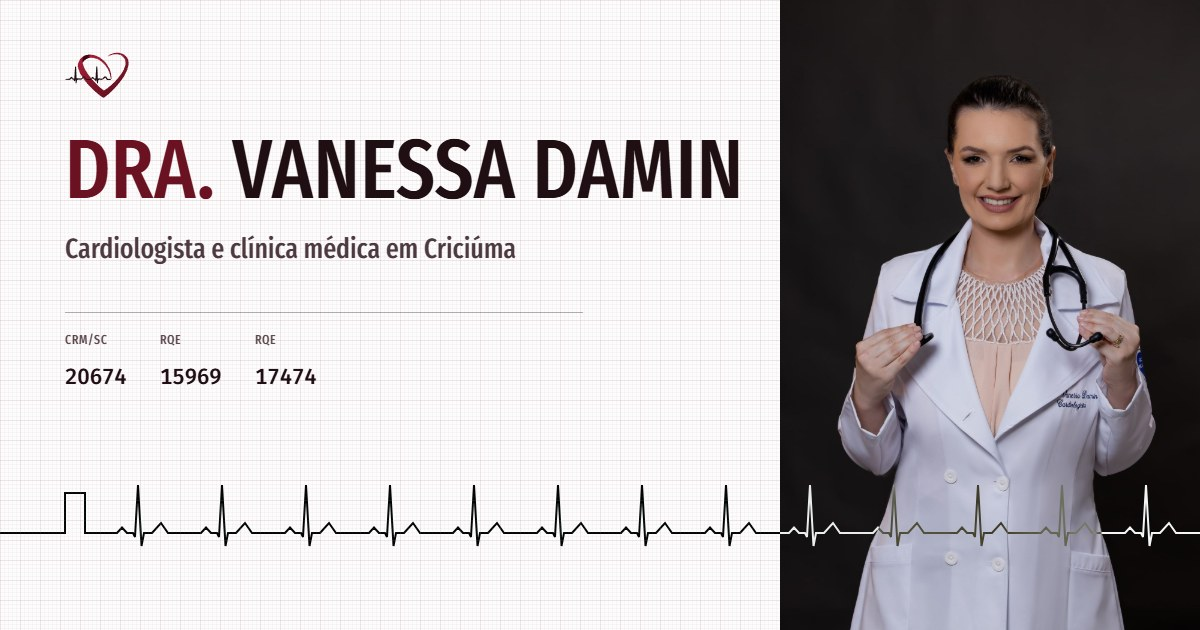
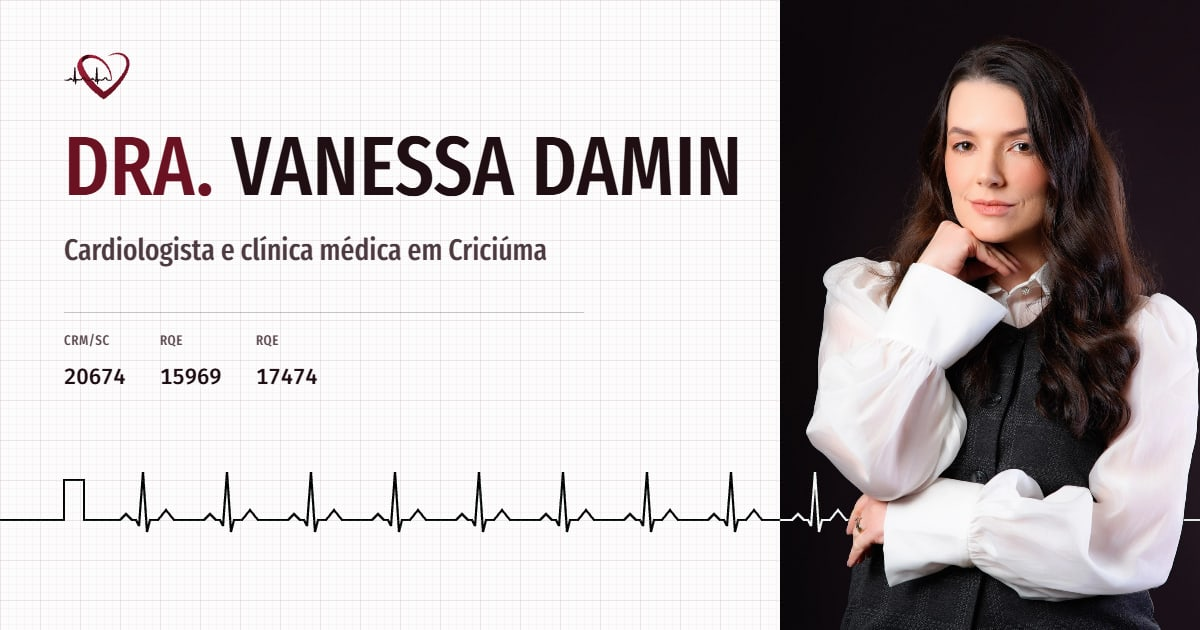
Fotos novas da Dra. Vanessa (ensaio de nov/2026)
- Capa com a IMG_7308 (escolha da Dra. Vanessa) e o traçado ainda passando
  por trás dela: tools/recorte.py agora usa GrabCut sobre a foto clareada,
  porque o cabelo, o colete e a calça são escuros como o fundo.
- Sobre com uma foto sorrindo (IMG_7309), como ela pediu.
- Trajetória com as três fotos do ensaio claro (IMG_7314, 7315 e 7317).
- Retrato IMG_7311 para o cartão da autora nas páginas por tema.
- Imagem de compartilhamento (share.jpg) refeita com a nova capa.
- Foto da abertura com sizes certo no celular e sem PNGs de reserva no recorte.

diff --git a/tools/recorte.py b/tools/recorte.py
@@ -1,13 +1,18 @@
 """
-Recorta a Dra. Vanessa do retrato da abertura (fundo grafite liso), para o traçado de ECG
-passar por trás dela. Gera src/assets/photos/vanessa-estetoscopio-recorte.webp: o mesmo
-retrato, do mesmo tamanho, com o fundo transparente. No site ele fica por cima do traçado,
-alinhado à foto.
+Recorta a Dra. Vanessa do retrato da abertura, para o traçado de ECG passar por trás dela.
+Gera src/assets/photos/vanessa-capa-recorte.webp: o mesmo retrato, do mesmo tamanho, com o
+fundo transparente. No site ele fica por cima do traçado, alinhado à foto.
 
-Uso: python tools/recorte.py
+O fundo é um roxo quase preto, e o cabelo, o colete e a calça também são escuros. Por isso o
+recorte não usa só o brilho: a foto é clareada (gama) para o fundo arroxeado se separar da
+roupa cinza e do cabelo castanho, e o GrabCut do OpenCV decide a borda a partir de uma
+semente segura (blusa branca, rosto e mãos).
+
+Uso: python tools/recorte.py [foto] [saida]
 Requer: opencv-python, numpy e pillow.
 """
 
+import sys
 from pathlib import Path
 
 import cv2
@@ -15,27 +20,54 @@ import numpy as np
 from PIL import Image
 
 ROOT = Path(__file__).resolve().parents[1]
-SRC = ROOT / "src" / "assets" / "photos" / "vanessa-estetoscopio.jpg"
-OUT = ROOT / "src" / "assets" / "photos" / "vanessa-estetoscopio-recorte.webp"
+SRC = Path(sys.argv[1]) if len(sys.argv) > 1 else ROOT / "src" / "assets" / "photos" / "vanessa-capa.jpg"
+OUT = Path(sys.argv[2]) if len(sys.argv) > 2 else ROOT / "src" / "assets" / "photos" / "vanessa-capa-recorte.webp"
 
 img = cv2.imread(str(SRC))  # BGR
 if img is None:
     raise SystemExit(f"foto não encontrada: {SRC}")
 h, w = img.shape[:2]
+
+
+def largest(mask: np.ndarray) -> np.ndarray:
+    n, lab, st, _ = cv2.connectedComponentsWithStats(mask, 8)
+    if n < 2:
+        return mask
+    big = 1 + int(np.argmax(st[1:, cv2.CC_STAT_AREA]))
+    return np.where(lab == big, 255, 0).astype(np.uint8)
+
+
+# 1. semente segura: o que é claro (blusa, rosto, mãos, colete iluminado) é pessoa
 L = cv2.cvtColor(img, cv2.COLOR_BGR2LAB)[:, :, 0]
+seed = (L > 48).astype(np.uint8) * 255
+seed = cv2.morphologyEx(seed, cv2.MORPH_OPEN, np.ones((5, 5), np.uint8))
+seed = largest(seed)
+seed = cv2.morphologyEx(seed, cv2.MORPH_CLOSE, cv2.getStructuringElement(cv2.MORPH_ELLIPSE, (61, 61)))
 
-# 1. claro = pessoa (jaleco, pele, blusa); o fundo grafite nunca passa de ~26 de luminância
-mask = (L > 40).astype(np.uint8) * 255
-mask = cv2.morphologyEx(mask, cv2.MORPH_OPEN, np.ones((3, 3), np.uint8))
+# 2. mapa inicial do GrabCut: pessoa certa, pessoa provável (casco que desce até a base,
+#    porque o corpo continua até a borda de baixo), fundo provável e fundo certo (laterais e topo)
+gc = np.full((h, w), cv2.GC_PR_BGD, np.uint8)
+ys, xs = np.nonzero(seed)
+cnts, _ = cv2.findContours(seed, cv2.RETR_EXTERNAL, cv2.CHAIN_APPROX_SIMPLE)
+pts = np.vstack(cnts).reshape(-1, 2)
+base = np.array([[xs.min() + w // 26, h - 1], [xs.max() - w // 26, h - 1]])
+cv2.fillPoly(gc, [cv2.convexHull(np.vstack([pts, base]))], cv2.GC_PR_FGD)
+gc[seed > 0] = cv2.GC_FGD
+cx = int(np.median(xs))
+gc[int(0.8 * h):, cx - w // 13 : cx + w // 13] = cv2.GC_FGD  # o meio da base é roupa
+m = int(0.05 * w)
+gc[:, :m] = cv2.GC_BGD
+gc[:, w - m :] = cv2.GC_BGD
+gc[: int(0.03 * h), :] = cv2.GC_BGD
 
-# 2. fica só a maior região: o corpo
-n, lab, st, _ = cv2.connectedComponentsWithStats(mask, 8)
-big = 1 + int(np.argmax(st[1:, cv2.CC_STAT_AREA]))
-mask = np.where(lab == big, 255, 0).astype(np.uint8)
+# 3. GrabCut sobre a foto clareada: nas sombras, o fundo é roxo e a roupa é cinza
+boost = np.clip(((img / 255.0) ** 0.4) * 255, 0, 255).astype(np.uint8)
+bgd, fgd = np.zeros((1, 65)), np.zeros((1, 65))
+cv2.grabCut(boost, gc, None, bgd, fgd, 10, cv2.GC_INIT_WITH_MASK)
+mask = np.where((gc == cv2.GC_FGD) | (gc == cv2.GC_PR_FGD), 255, 0).astype(np.uint8)
+mask = largest(cv2.morphologyEx(mask, cv2.MORPH_OPEN, np.ones((5, 5), np.uint8)))
 
-# 3. fecha as falhas finas e escuras dentro do corpo (os tubos do estetoscópio)
-#    e preenche os buracos que não tocam a borda da foto
-mask = cv2.morphologyEx(mask, cv2.MORPH_CLOSE, cv2.getStructuringElement(cv2.MORPH_ELLIPSE, (31, 31)))
+# 4. preenche buracos que não tocam a borda da foto e fecha falhas finas
 inv = cv2.bitwise_not(mask)
 n2, lab2, st2, _ = cv2.connectedComponentsWithStats(inv, 8)
 for i in range(1, n2):
@@ -44,9 +76,9 @@ for i in range(1, n2):
         mask[lab2 == i] = 255
 mask = cv2.morphologyEx(mask, cv2.MORPH_CLOSE, np.ones((9, 9), np.uint8))
 
-# 4. borda suave, sem serrilhado
+# 5. borda suave, sem serrilhado
 alpha = cv2.GaussianBlur(mask, (0, 0), 1.4)
 
 rgba = np.dstack([cv2.cvtColor(img, cv2.COLOR_BGR2RGB), alpha])
 Image.fromarray(rgba, "RGBA").save(OUT, "WEBP", quality=94, method=6)
-print(f"{OUT.relative_to(ROOT)}: {w} x {h}, pessoa em {round(float((mask > 0).mean()) * 100, 1)}% da foto")
+print(f"{OUT.name}: {w} x {h}, pessoa em {round(float((mask > 0).mean()) * 100, 1)}% da foto")
